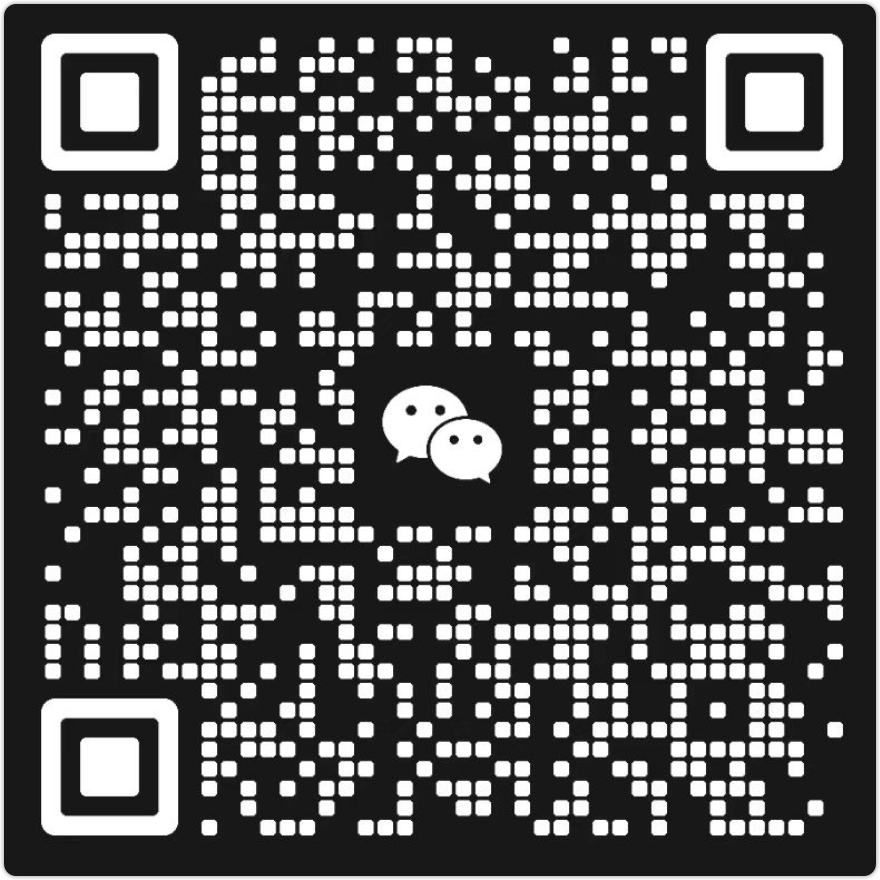
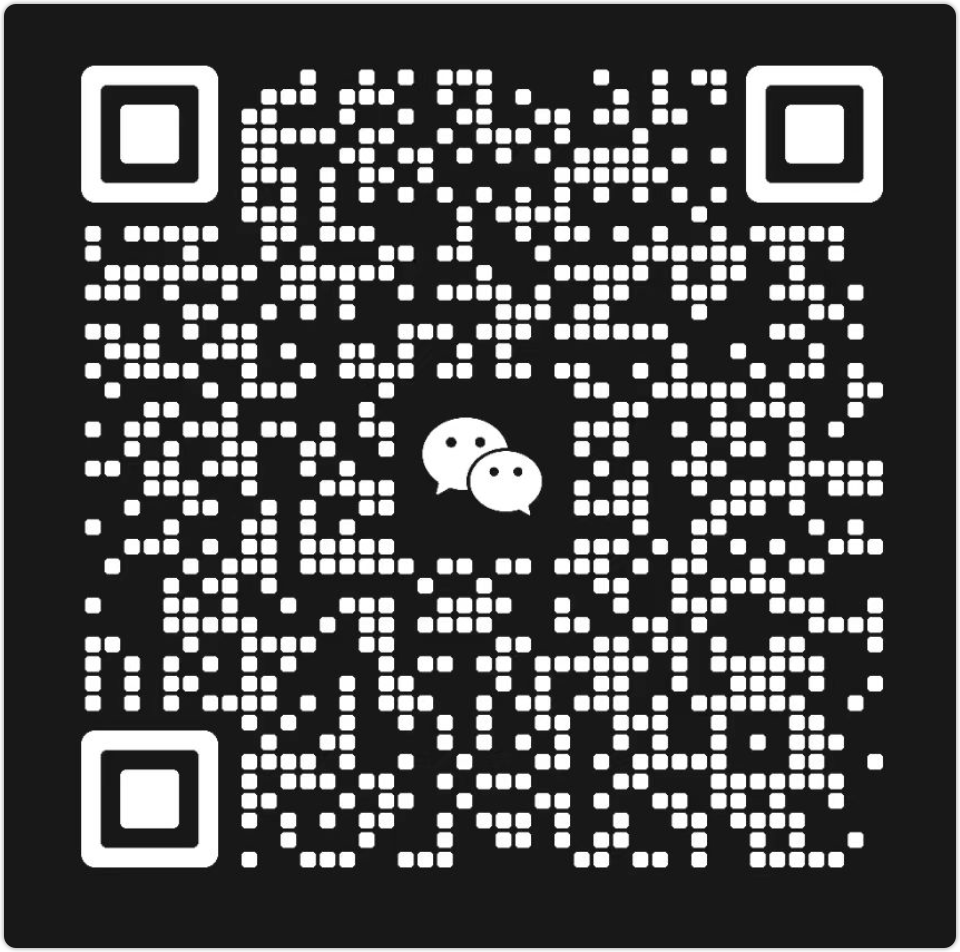
update README.md.

diff --git a/README.md b/README.md
@@ -8,9 +8,9 @@
 
 ### 联系我们
 - 70 后创业，无奈行业太卷。真心期望得到您的 Star，让更多同行知道我们的存在。
-- 如果您喜欢 QQ 沟通，可以加入我们的 QQ 群 833624889。
-- 如果您习惯使用微信，扫码加我微信，拉您入群。
-|![](images/OrangeL.png)|![](images/weixingroup.png)|![](images/OrangeL.png)|
+- 下图左侧是个人微信，加好友后拉您入群，右侧是群二维码，扫码后可直接入群。
+
+|![](images/OrangeL.png)|![](images/weixingroup.png)|
 |---|---|---|
 
 ### 入群福利
